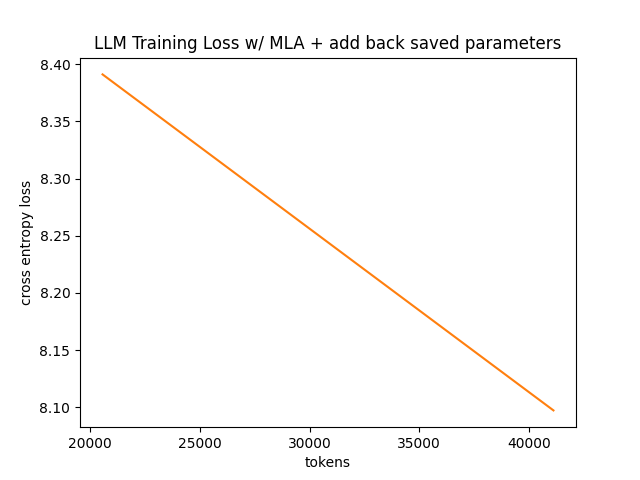
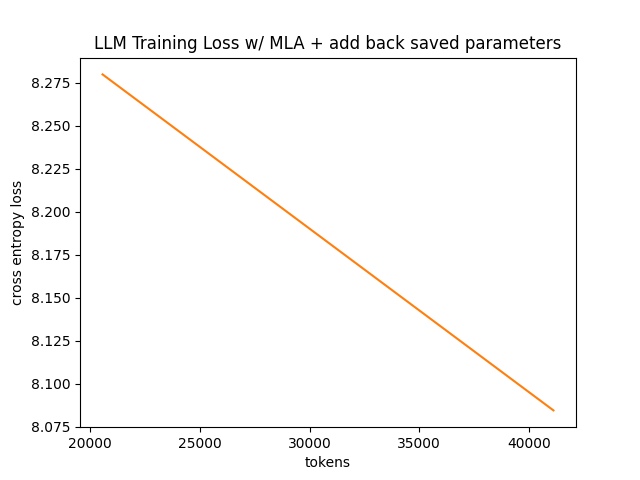
kv cache results in writeup

diff --git a/final_project/train_model.py b/final_project/train_model.py
@@ -31,7 +31,7 @@ def train():
     # using nvidia rtx 3090, all left the same as originally
     # 35M parameters
     device = torch.device("cuda" if torch.cuda.is_available() else "cpu")
-    model = GPTModel(d_model=512, n_heads=16, layers=8, vocab_size=10000, max_seq_len=256, use_mla=True)
+    model = GPTModel(d_model=512, n_heads=16, layers=9, vocab_size=10000, max_seq_len=256, use_mla=True)
     param_count = sum(p.numel() for p in model.parameters())
     print("Model has", param_count, "parameters.")
 
